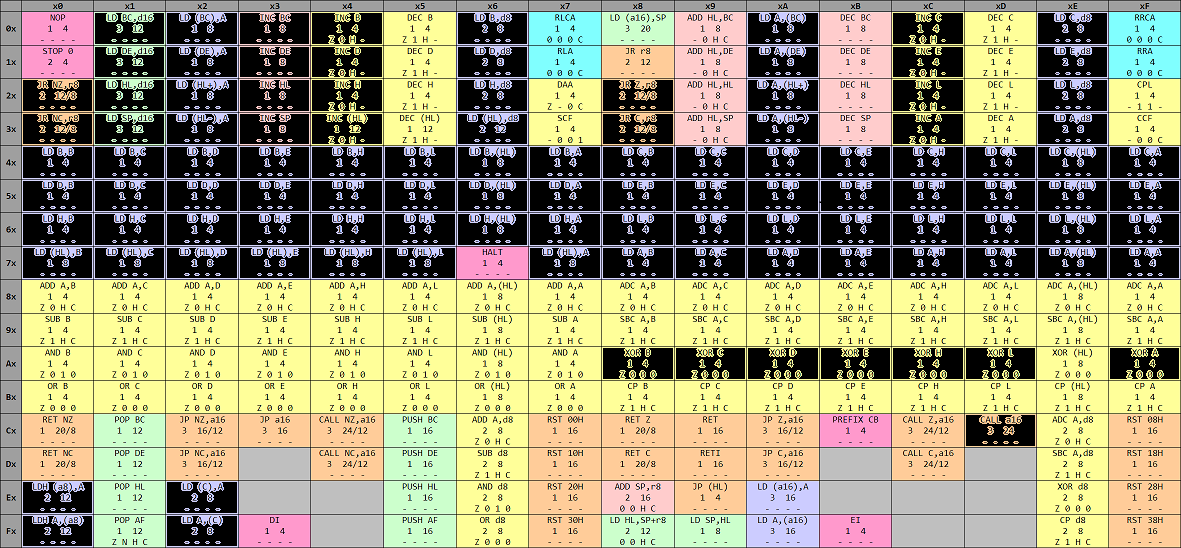
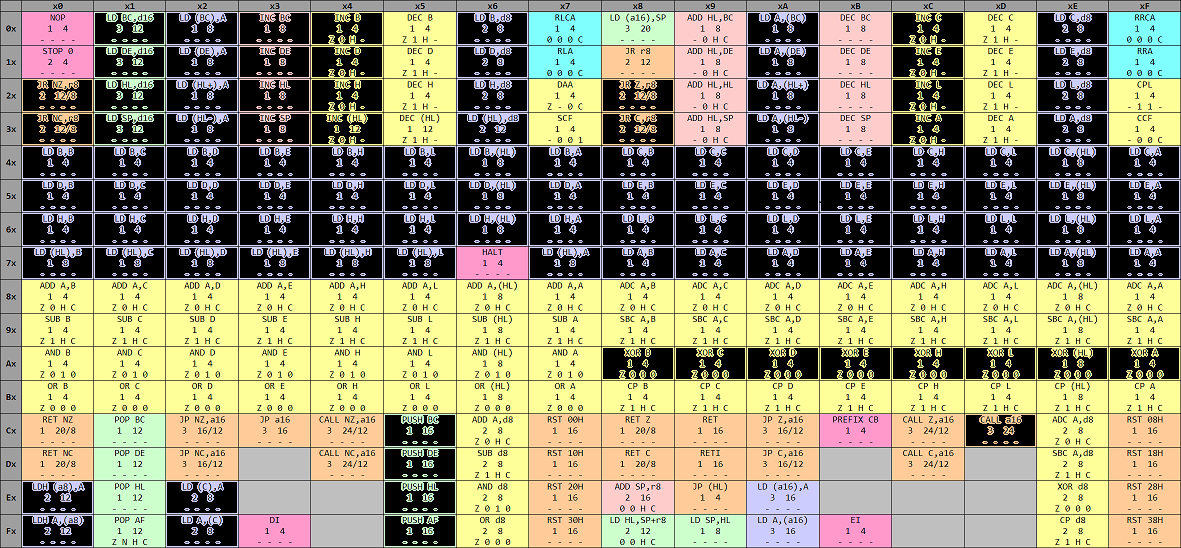
Implement Push and RotateLeft through carry

Changed region(s): [[0.3048, 0.7445, 0.3963, 1.0], [0.8535, 0.6204, 0.945, 0.7135]]

diff --git a/gbCPU.decode.c b/gbCPU.decode.c
@@ -481,13 +481,17 @@ short DecodeExecute(BYTE opcode, FILE *output)
                    break;                                      
 
         // Push word onto stack
-        case 0xc5: fprintf(output, OPR, "PUSH", "BC");
+        case 0xc5: cycles = Push(regBC.word);
+                   fprintf(output, OPR, "PUSH", "BC");
                    break;
-        case 0xd5: fprintf(output, OPR, "PUSH", "DE");
+        case 0xd5: cycles = Push(regDE.word);
+                   fprintf(output, OPR, "PUSH", "DE");
                    break;
-        case 0xe5: fprintf(output, OPR, "PUSH", "HL");
+        case 0xe5: cycles = Push(regHL.word);
+                   fprintf(output, OPR, "PUSH", "HL");
                    break;
-        case 0xf5: fprintf(output, OPR, "PUSH", "AF");
+        case 0xf5: cycles = Push(regAF.word);
+                   fprintf(output, OPR, "PUSH", "AF");
                    break;                                      
 
         // Return
@@ -562,21 +566,29 @@ short DecodeExecuteCB(BYTE opcode, FILE *output)
     switch (opcode)
     {
         // Rotate left through carry
-        case 0x10: fprintf(output, OPR, "RL", "B");
+        case 0x10: cycles = RotateLeft(&regBC.hi, reg);
+                   fprintf(output, OPR, "RL", "B");
                    break;
-        case 0x11: fprintf(output, OPR, "RL", "C");
+        case 0x11: cycles = RotateLeft(&regBC.lo, reg);
+                   fprintf(output, OPR, "RL", "C");
                    break;
-        case 0x12: fprintf(output, OPR, "RL", "D");
+        case 0x12: cycles = RotateLeft(&regDE.hi, reg);
+                   fprintf(output, OPR, "RL", "D");
                    break;
-        case 0x13: fprintf(output, OPR, "RL", "E");
+        case 0x13: cycles = RotateLeft(&regDE.lo, reg);
+                   fprintf(output, OPR, "RL", "E");
                    break;
-        case 0x14: fprintf(output, OPR, "RL", "H");
+        case 0x14: cycles = RotateLeft(&regHL.hi, reg);
+                   fprintf(output, OPR, "RL", "H");
                    break;
-        case 0x15: fprintf(output, OPR, "RL", "L");
+        case 0x15: cycles = RotateLeft(&regHL.lo, reg);
+                   fprintf(output, OPR, "RL", "L");
                    break;
-        case 0x16: fprintf(output, OPR, "RL", "(HL)");
+        case 0x16: cycles = RotateLeft(&mainMemory[regHL.word], memory);
+                   fprintf(output, OPR, "RL", "(HL)");
                    break;
-        case 0x17: fprintf(output, OPR, "RL", "A");
+        case 0x17: cycles = RotateLeft(&regAF.hi, reg);
+                   fprintf(output, OPR, "RL", "A");
                    break;                                                                                                                  
 
         // Test bit 0
@@ -787,7 +799,7 @@ short DecodeExecuteCB(BYTE opcode, FILE *output)
 				   fprintf(output, OPRR, "BIT", "7", "A");
                    break;                       
     }
-    
+
     // The 0xcb prefix itself requires 4 cycles to decode
     return cycles + 4;
 }

diff --git a/gbCPU.c b/gbCPU.c
@@ -166,10 +166,25 @@ short LoadByte(BYTE *dest, enum operandType destType, BYTE src, enum operandType
     }
 }
 
+short Push(WORD value)
+{
+    // Calculate the hi and lo bytes of value
+    BYTE hi = value >> 8;
+    BYTE lo = value;
+
+    // Store value on the stack
+    mainMemory[SP.word--] = hi;
+    mainMemory[SP.word--] = lo;
+
+    return 12;
+}
+
 short JumpRelativeCond(enum cpuFlag flag, bool condition, S_BYTE offset)
 {
+    // Get the state of the flag
     bool flagSet = GetFlag(flag);
 
+    // If the flag state matches condition, jump
     if( (flagSet == true  && condition == true) ||
         (flagSet == false && condition == false) )
     {
@@ -182,10 +197,12 @@ short JumpRelativeCond(enum cpuFlag flag, bool condition, S_BYTE offset)
 
 short Call(WORD address)
 {
+    // Store the address of the next instruction on the stack
     PC.word++;
     mainMemory[SP.word--] = PC.hi;
     mainMemory[SP.word--] = PC.lo;
 
+    // Jump to address
     PC.word = address;
 
     return 24;
@@ -250,4 +267,27 @@ short Bit(short position, BYTE *toTest)
     SetFlag(halfCarry);
 
     return 8;
+}
+
+short RotateLeft(BYTE *value, enum operandType valueType)
+{
+    // Store the state of the carry flag
+    short bitZero = GetFlag(carry);
+
+    // Clear flags
+    regAF.lo = 0x00;
+
+    // Set the flag if most significant bit of value is 1
+    if(*value >> 7)
+        SetFlag(carry);
+
+    // Shift left and put old value of carry flag at bit 0
+    *value <<= 1;
+    *value |= bitZero;
+
+    // Return the appropriate number of cycles
+    if(valueType == reg)
+        return 8;
+    else
+        return 16;
 }

diff --git a/gbCPU.h b/gbCPU.h
@@ -82,6 +82,7 @@ WORD GetImmediateWord(FILE *output);
 // Memory instructions
 short LoadWord(WORD *dest, WORD src, enum operandType srcType);
 short LoadByte(BYTE *dest, enum operandType destType, BYTE src, enum operandType srcType);
+short Push(WORD value);
 
 // Control flow functions
 short JumpRelativeCond(enum cpuFlag flag, bool condition, S_BYTE offset);
@@ -96,5 +97,6 @@ short Xor(BYTE value, enum operandType valueType);
 
 // Bitwise instructions
 short Bit(short bit, BYTE *toTest);
+short RotateLeft(BYTE *value, enum operandType valueType);
 
 #endif
